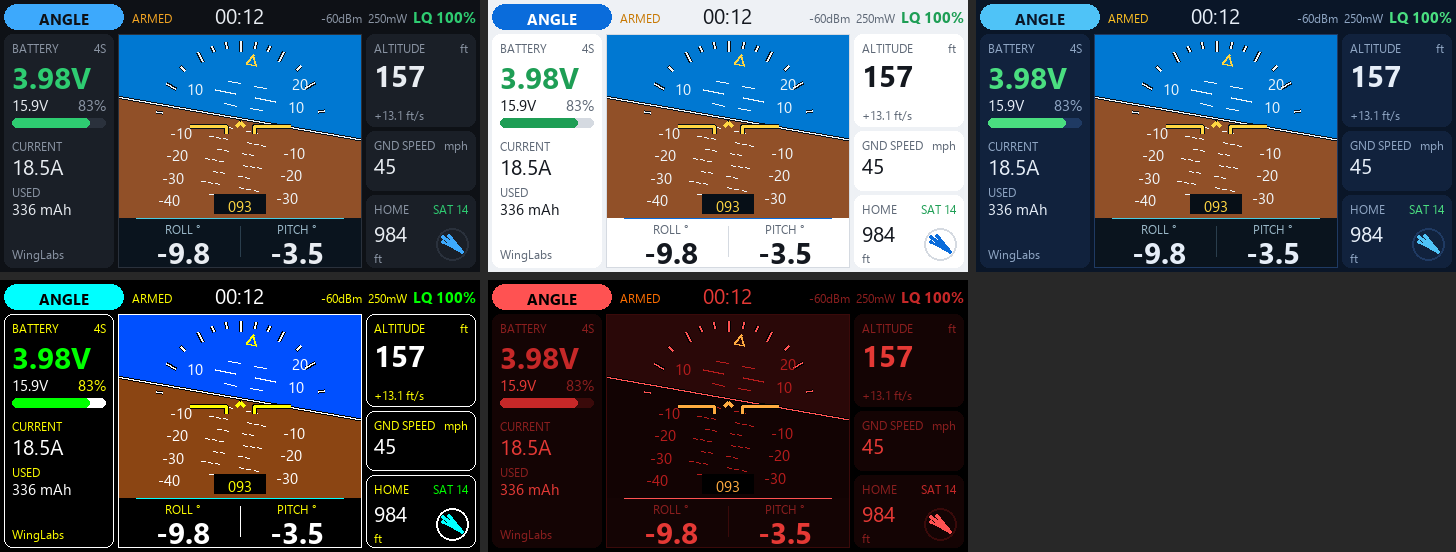
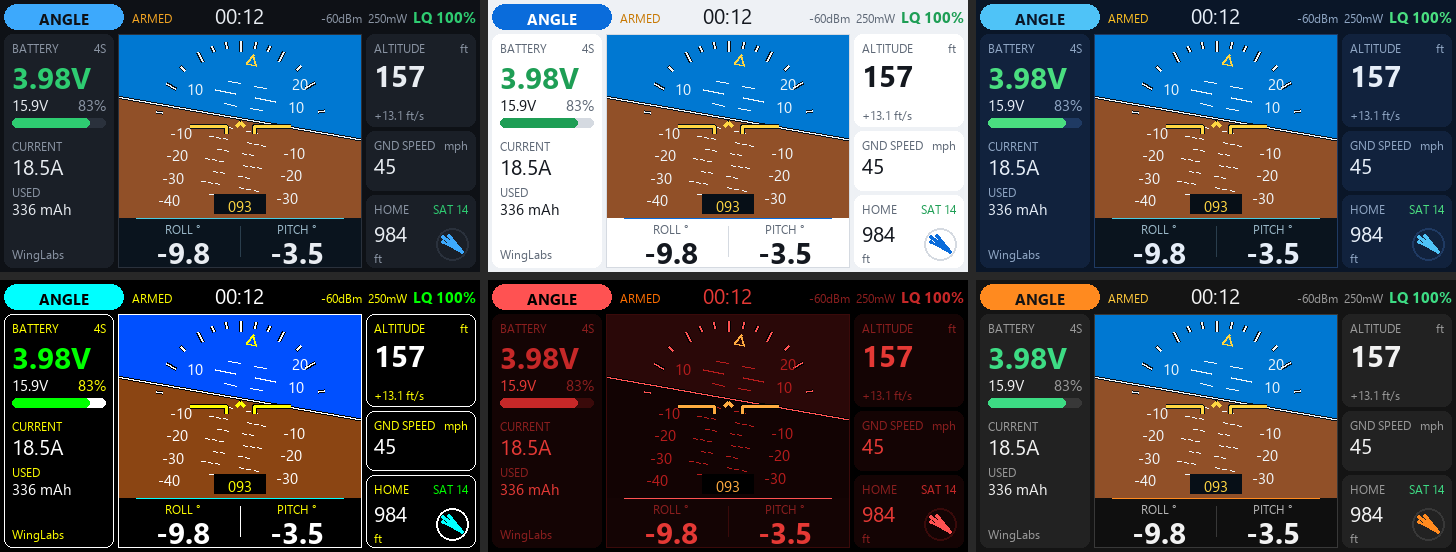
Add Carbon theme (6th) so the theme gallery fills a 3x2 grid
Neutral graphite with an orange accent, firmware sky/ground colors.
Added to WL Attitude Ind, WL Avionics and WL Maps (480x272 and 800x480),
READMEs updated and theme gallery regenerated.

diff --git a/480x272px/WLMaps/tools/sim/run_sim.py b/480x272px/WLMaps/tools/sim/run_sim.py
@@ -21,7 +21,7 @@ OUT = os.path.join(HERE, "out")
 PHOTO = (os.environ.get("WL_SIM_WLMAP") or os.path.join(os.path.dirname(REPO), "WLAvionics", "tools", "maptiles", "out", "WLMAP")).replace("\\", "/").rstrip("/") + "/"
 EDGE_LIMIT = 20000  # instructions per Lua call before EdgeTX raises "CPU limit"
 
-THEMES = ["Dark", "Light", "Navy", "Sunlight", "Night"]
+THEMES = ["Dark", "Light", "Navy", "Sunlight", "Night", "Carbon"]
 # Synthetic flight home: AMA International Aeromodeling Center, Muncie, Indiana (public example).
 # Override with WL_SIM_HOME="lat,lon" to fly the simulator over your own field.
 HOME = tuple(float(v) for v in os.environ.get("WL_SIM_HOME", "40.1666,-85.3195").split(","))

diff --git a/800x480px/WLMaps/tools/sim/run_sim.py b/800x480px/WLMaps/tools/sim/run_sim.py
@@ -21,7 +21,7 @@ OUT = os.path.join(HERE, "out")
 PHOTO = (os.environ.get("WL_SIM_WLMAP") or os.path.join(os.path.dirname(REPO), "WLAvionics", "tools", "maptiles", "out", "WLMAP")).replace("\\", "/").rstrip("/") + "/"
 EDGE_LIMIT = 20000  # instructions per Lua call before EdgeTX raises "CPU limit"
 
-THEMES = ["Dark", "Light", "Navy", "Sunlight", "Night"]
+THEMES = ["Dark", "Light", "Navy", "Sunlight", "Night", "Carbon"]
 # Synthetic flight home: AMA International Aeromodeling Center, Muncie, Indiana (public example).
 # Override with WL_SIM_HOME="lat,lon" to fly the simulator over your own field.
 HOME = tuple(float(v) for v in os.environ.get("WL_SIM_HOME", "40.1666,-85.3195").split(","))

diff --git a/480x272px/WLAvionics/tools/sim/run_sim.py b/480x272px/WLAvionics/tools/sim/run_sim.py
@@ -21,7 +21,7 @@ OUT = os.path.join(HERE, "out")
 PHOTO = (os.environ.get("WL_SIM_WLMAP") or os.path.join(REPO, "tools", "maptiles", "out", "WLMAP")).replace("\\", "/").rstrip("/") + "/"
 EDGE_LIMIT = 20000  # instructions per Lua call before EdgeTX raises "CPU limit"
 
-THEMES = ["Dark", "Light", "Navy", "Sunlight", "Night"]
+THEMES = ["Dark", "Light", "Navy", "Sunlight", "Night", "Carbon"]
 # Synthetic flight home: AMA International Aeromodeling Center, Muncie, Indiana (public example).
 # Override with WL_SIM_HOME="lat,lon" to fly the simulator over your own field.
 HOME = tuple(float(v) for v in os.environ.get("WL_SIM_HOME", "40.1666,-85.3195").split(","))

diff --git a/800x480px/WLAvionics/tools/sim/run_sim.py b/800x480px/WLAvionics/tools/sim/run_sim.py
@@ -21,7 +21,7 @@ OUT = os.path.join(HERE, "out")
 PHOTO = (os.environ.get("WL_SIM_WLMAP") or os.path.join(REPO, "tools", "maptiles", "out", "WLMAP")).replace("\\", "/").rstrip("/") + "/"
 EDGE_LIMIT = 20000  # instructions per Lua call before EdgeTX raises "CPU limit"
 
-THEMES = ["Dark", "Light", "Navy", "Sunlight", "Night"]
+THEMES = ["Dark", "Light", "Navy", "Sunlight", "Night", "Carbon"]
 # Synthetic flight home: AMA International Aeromodeling Center, Muncie, Indiana (public example).
 # Override with WL_SIM_HOME="lat,lon" to fly the simulator over your own field.
 HOME = tuple(float(v) for v in os.environ.get("WL_SIM_HOME", "40.1666,-85.3195").split(","))

diff --git a/480x272px/WLAttitudeInd/tools/sim/run_sim.py b/480x272px/WLAttitudeInd/tools/sim/run_sim.py
@@ -19,7 +19,7 @@ WIDGET = os.path.join(REPO, "WIDGETS", "WLAttitudeInd").replace("\\", "/") + "/"
 OUT = os.path.join(HERE, "out")
 EDGE_LIMIT = 20000  # instructions per Lua call before EdgeTX raises "CPU limit"
 
-THEMES = ["Dark", "Light", "Navy", "Sunlight", "Night"]
+THEMES = ["Dark", "Light", "Navy", "Sunlight", "Night", "Carbon"]
 # Synthetic flight home: AMA International Aeromodeling Center, Muncie, Indiana (public example).
 # Override with WL_SIM_HOME="lat,lon" to fly the simulator over your own field.
 HOME = tuple(float(v) for v in os.environ.get("WL_SIM_HOME", "40.1666,-85.3195").split(","))

diff --git a/800x480px/WLAttitudeInd/tools/sim/run_sim.py b/800x480px/WLAttitudeInd/tools/sim/run_sim.py
@@ -19,7 +19,7 @@ WIDGET = os.path.join(REPO, "WIDGETS", "WLAttitudeInd").replace("\\", "/") + "/"
 OUT = os.path.join(HERE, "out")
 EDGE_LIMIT = 20000  # instructions per Lua call before EdgeTX raises "CPU limit"
 
-THEMES = ["Dark", "Light", "Navy", "Sunlight", "Night"]
+THEMES = ["Dark", "Light", "Navy", "Sunlight", "Night", "Carbon"]
 # Synthetic flight home: AMA International Aeromodeling Center, Muncie, Indiana (public example).
 # Override with WL_SIM_HOME="lat,lon" to fly the simulator over your own field.
 HOME = tuple(float(v) for v in os.environ.get("WL_SIM_HOME", "40.1666,-85.3195").split(","))

diff --git a/README.md b/README.md
@@ -121,15 +121,16 @@ One banner shows the most important alert at any moment, in this priority order:
 
 ![Themes](article_images/themes.png)
 
-There are five themes:
+There are six themes:
 
 - **Dark**: the default.
 - **Light**.
 - **Navy**.
 - **Sunlight**: black and white with saturated colors, for direct sun.
 - **Night**: red only, to preserve night vision.
+- **Carbon**: neutral graphite with an orange accent.
 
-Dark, Light and Navy use the same sky and earth colors as the WingLabs attitude indicator.
+Dark, Light, Navy and Carbon use the same sky and earth colors as the WingLabs attitude indicator.
 
 In a small screen zone the widget switches to a compact layout with flight mode, cell voltage,
 altitude, link quality and home distance:
@@ -197,7 +198,7 @@ Open *Screens setup*, select the widget's zone and choose *Widget settings*:
 
 | Option | Values | Default | Notes |
 |---|---|---|---|
-| Theme | Dark, Light, Navy, Sunlight, Night | Dark | |
+| Theme | Dark, Light, Navy, Sunlight, Night, Carbon | Dark | |
 | Units | Imperial, Metric | Imperial | The photo map works in imperial |
 | Cells | 0 = auto, 1–14 | 0 | Auto-detects the cell count when disarmed |
 | CellWarn | 300–420 | 350 | Centivolts per cell: 350 = 3.50 V (BATTERY LOW) |

diff --git a/480x272px/WLAttitudeInd/README.md b/480x272px/WLAttitudeInd/README.md
@@ -25,7 +25,7 @@ attitude indicator firmware (WingUI). The TX16S MK3 (800×480, EdgeTX 2.12+) bui
 
 | Option | Values | Default |
 |---|---|---|
-| Theme | Dark, Light, Navy, Sunlight, Night | Dark |
+| Theme | Dark, Light, Navy, Sunlight, Night, Carbon | Dark |
 | Units | Imperial, Metric | Imperial |
 | Cells | 0 = auto, 1–14 | 0 |
 | CellWarn / CellCrit | centivolts per cell (350 = 3.50 V) | 350 / 330 |

diff --git a/800x480px/WLAttitudeInd/README.md b/800x480px/WLAttitudeInd/README.md
@@ -28,7 +28,7 @@ attitude indicator firmware (WingUI).
 
 | Option | Values | Default |
 |---|---|---|
-| Theme | Dark, Light, Navy, Sunlight, Night | Dark |
+| Theme | Dark, Light, Navy, Sunlight, Night, Carbon | Dark |
 | Units | Imperial, Metric | Imperial |
 | Cells | 0 = auto, 1–14 | 0 |
 | CellWarn / CellCrit | centivolts per cell (350 = 3.50 V) | 350 / 330 |

diff --git a/480x272px/WLAvionics/README.md b/480x272px/WLAvionics/README.md
@@ -30,7 +30,7 @@ responsive for the whole flight.
 
 | Option | Values | Default |
 |---|---|---|
-| Theme | Dark, Light, Navy, Sunlight, Night | Dark |
+| Theme | Dark, Light, Navy, Sunlight, Night, Carbon | Dark |
 | Units | Imperial, Metric | Imperial |
 | Cells | 0 = auto, 1–14 | 0 |
 | CellWarn / CellCrit | centivolts per cell (350 = 3.50 V) | 350 / 330 |

diff --git a/800x480px/WLAvionics/README.md b/800x480px/WLAvionics/README.md
@@ -29,7 +29,7 @@ responsive for the whole flight.
 
 | Option | Values | Default |
 |---|---|---|
-| Theme | Dark, Light, Navy, Sunlight, Night | Dark |
+| Theme | Dark, Light, Navy, Sunlight, Night, Carbon | Dark |
 | Units | Imperial, Metric | Imperial |
 | Cells | 0 = auto, 1–14 | 0 |
 | CellWarn / CellCrit | centivolts per cell (350 = 3.50 V) | 350 / 330 |
